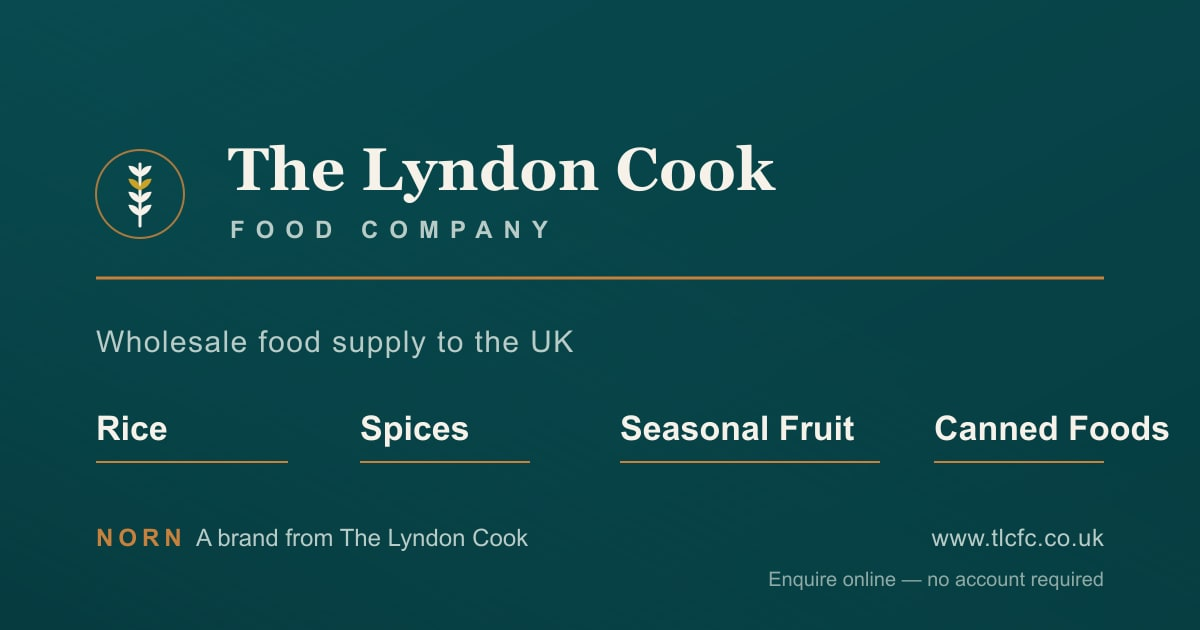
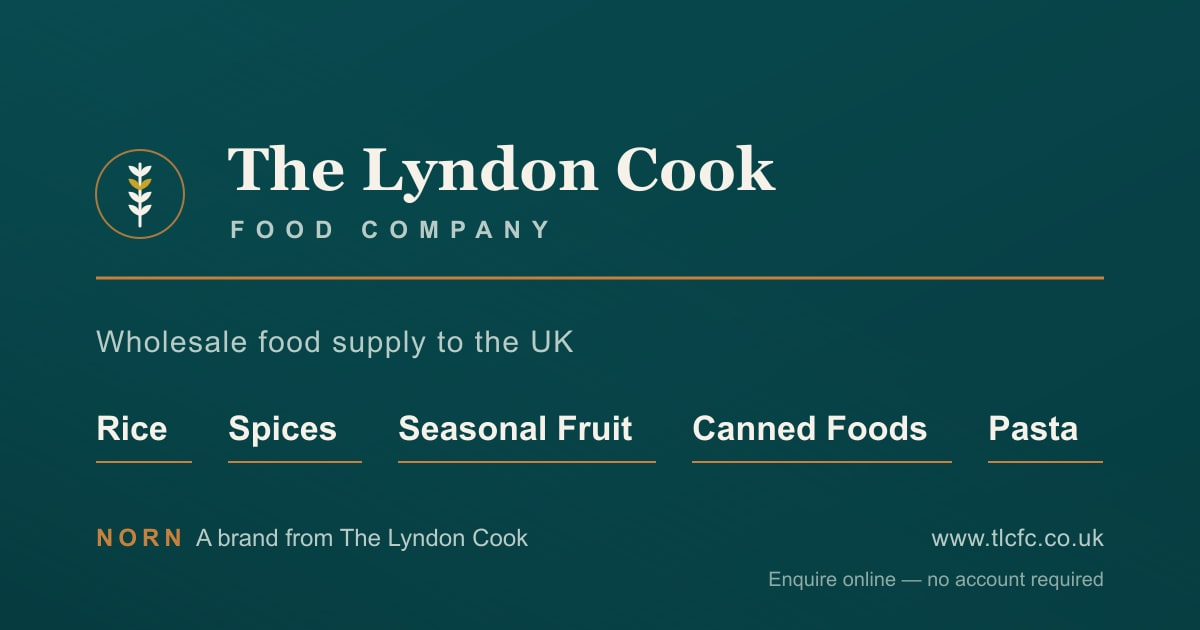
Fix batch-one bugs, add pasta across site copy and refresh the share image

Changed region(s): [[0.185, 0.6635, 0.9867, 0.754], [0.1542, 0.7238, 0.185, 0.754]]

diff --git a/components/ProductFilters.tsx b/components/ProductFilters.tsx
@@ -75,7 +75,9 @@ export default function ProductFilters({
     setSubgroup(ALL);
   };
 
-  const filterPanel = (
+  // Rendered twice (desktop rail + mobile panel); the scope suffix keeps ids
+  // and radio group names unique so labels target their own copy.
+  const filterPanel = (scope: "desktop" | "mobile") => (
     <div className="space-y-7">
       {/* Category pills */}
       <fieldset>
@@ -96,7 +98,7 @@ export default function ProductFilters({
               >
                 <input
                   type="radio"
-                  name={`${baseId}-category`}
+                  name={`${baseId}-category-${scope}`}
                   value={option.id}
                   checked={checked}
                   disabled={lockedCategory !== undefined && option.id !== lockedCategory}
@@ -133,7 +135,7 @@ export default function ProductFilters({
                 >
                   <input
                     type="radio"
-                    name={`${baseId}-subgroup`}
+                    name={`${baseId}-subgroup-${scope}`}
                     value={option.id}
                     checked={checked}
                     onChange={() => setSubgroup(option.id)}
@@ -150,7 +152,7 @@ export default function ProductFilters({
       {/* Search */}
       <div>
         <label
-          htmlFor={`${baseId}-search`}
+          htmlFor={`${baseId}-search-${scope}`}
           className="font-sans text-xs font-semibold uppercase tracking-[0.16em] text-muted"
         >
           Search products
@@ -161,7 +163,7 @@ export default function ProductFilters({
             className="pointer-events-none absolute left-3.5 top-1/2 h-4 w-4 -translate-y-1/2 text-teal-600"
           />
           <input
-            id={`${baseId}-search`}
+            id={`${baseId}-search-${scope}`}
             type="search"
             value={query}
             onChange={(event) => setQuery(event.target.value)}
@@ -192,7 +194,7 @@ export default function ProductFilters({
             <SlidersHorizontal aria-hidden="true" className="h-4 w-4 text-copper-600" />
             Filter the range
           </h2>
-          <div className="mt-6">{filterPanel}</div>
+          <div className="mt-6">{filterPanel("desktop")}</div>
           {hasFilters ? (
             <button
               type="button"
@@ -248,7 +250,7 @@ export default function ProductFilters({
               id={`${baseId}-mobile-filters`}
               className="mt-4 rounded-[6px] border border-sand bg-white p-5 shadow-[0_1px_3px_rgba(8,75,80,0.04)]"
             >
-              {filterPanel}
+              {filterPanel("mobile")}
             </div>
           ) : null}
         </div>

diff --git a/components/CategoryPageView.tsx b/components/CategoryPageView.tsx
@@ -8,7 +8,7 @@ import ProductCard from "@/components/ProductCard";
 import { PageHero } from "@/components/Hero";
 import type { Category } from "@/lib/categories";
 import { itemListSchema } from "@/lib/seo";
-import { getProductsByCategory } from "@/lib/products";
+import { CATALOGUE_COUNTS, getProductsByCategory } from "@/lib/products";
 import { CATEGORY_BANNERS, WEBSITE_BANNERS } from "@/lib/images";
 import { enquiryHref } from "@/lib/enquiry";
 
@@ -47,7 +47,7 @@ export default function CategoryPageView({ category }: { category: Category }) {
           <Container className="py-10">
             <dl className="grid gap-6 sm:grid-cols-3">
               {[
-                { label: "Choices", value: "14" },
+                { label: "Choices", value: String(CATALOGUE_COUNTS.canned) },
                 { label: "Can format", value: "400 ml" },
                 { label: "Opening", value: "Easy-open ring-pull" },
               ].map((item) => (
@@ -93,9 +93,21 @@ export default function CategoryPageView({ category }: { category: Category }) {
         </section>
       ) : null}
 
-      <section className="bg-ivory" aria-label={`${category.shortName} products`}>
+      <section className="bg-ivory" aria-labelledby="category-products-heading">
         <Container className="py-14 sm:py-16 lg:py-20">
-          <ul className="grid grid-cols-1 gap-5 sm:grid-cols-2 lg:grid-cols-3 lg:gap-6">
+          <p className="eyebrow">Product range</p>
+          <h2
+            id="category-products-heading"
+            className="mt-5 text-[1.75rem] leading-[1.15] text-teal-800 sm:text-[2.125rem]"
+          >
+            {products.length}{" "}
+            {products.length === 1 ? "product" : "products"} in {category.shortName}
+          </h2>
+          <p className="mt-4 max-w-2xl text-[0.9375rem] leading-relaxed text-muted">
+            Specifications, pack formats and artwork for every product in this
+            range are confirmed per order.
+          </p>
+          <ul className="mt-10 grid grid-cols-1 gap-5 sm:grid-cols-2 lg:grid-cols-3 lg:gap-6">
             {products.map((product, index) => (
               <li key={product.id} className="h-full">
                 <ProductCard product={product} delay={index * 70} />

diff --git a/app/about/page.tsx b/app/about/page.tsx
@@ -53,11 +53,12 @@ export default function AboutPage() {
                 </h2>
                 <div className="mt-6 space-y-4 text-[1.0625rem] leading-[1.7] text-muted">
                   <p>
-                    We supply rice, everyday ingredients, spices, seasonal fruit and
-                    canned foods to businesses that buy food to cook, serve or
-                    resell. The work is not complicated: match the right product to
-                    the right use, agree a clear specification, and plan the orders
-                    so deliveries land when the kitchen expects them.
+                    We supply rice, everyday ingredients, spices, seasonal fruit,
+                    canned foods and pasta to businesses that buy food to cook,
+                    serve or resell. The work is not complicated: match the right
+                    product to the right use, agree a clear specification, and
+                    plan the orders so deliveries land when the kitchen expects
+                    them.
                   </p>
                   <p>
                     We are a B2B supplier. We do not sell directly to the public
@@ -145,8 +146,8 @@ export default function AboutPage() {
               id="focus-heading"
               className="mt-5 text-[1.9rem] leading-[1.1] sm:text-[2.375rem] lg:text-[2.75rem]"
             >
-              Rice, everyday ingredients, spices, seasonal fruit and canned
-              foods.
+              Rice, everyday ingredients, spices, seasonal fruit, canned foods
+              and pasta.
             </h2>
             <p className="mt-5 text-[1.0625rem] leading-[1.7] text-muted">
               {CATALOGUE_COUNTS.total} products across {CATEGORIES.length} ranges. Each one has

diff --git a/lib/seo.ts b/lib/seo.ts
@@ -14,7 +14,7 @@ import type { Category } from "@/lib/categories";
 export const DEFAULT_TITLE = `${SITE.name} | UK Food Supply`;
 
 export const DEFAULT_DESCRIPTION =
-  "Explore rice, spices, seasonal fruit and canned foods. Discuss product specifications, volumes and planned supply with The Lyndon Cook Food Company.";
+  "Explore rice, spices, seasonal fruit, canned foods and pasta. Discuss product specifications, volumes and planned supply with The Lyndon Cook Food Company.";
 
 export function absoluteUrl(path = "/"): string {
   const normalised = path.startsWith("/") ? path : `/${path}`;
@@ -114,7 +114,7 @@ export function organizationSchema() {
     },
     image: absoluteUrl(SITE.ogImage.src),
     description:
-      "Wholesale food supply of rice, spices, seasonal fruit and canned foods, supplied around agreed specifications and planned purchasing requirements.",
+      "Wholesale food supply of rice, spices, seasonal fruit, canned foods and pasta, supplied around agreed specifications and planned purchasing requirements.",
     email: SITE.email,
     telephone: SITE.phoneHref,
     address: {

diff --git a/app/how-we-supply/page.tsx b/app/how-we-supply/page.tsx
@@ -5,12 +5,11 @@ import Link from "next/link";
 import Container from "@/components/Container";
 import EnquiryCTA from "@/components/EnquiryCTA";
 import Faq, { type FaqItem } from "@/components/Faq";
-import JsonLd from "@/components/JsonLd";
 import Reveal from "@/components/Reveal";
 import SupplyProcess, { DEFAULT_SUPPLY_STEPS } from "@/components/SupplyProcess";
 import { PageHero } from "@/components/Hero";
 import { IMAGE_SIZES, IMAGES, PRODUCT_PAGE_BANNERS } from "@/lib/images";
-import { faqSchema, pageMetadata } from "@/lib/seo";
+import { pageMetadata } from "@/lib/seo";
 
 const TITLE =   "How We Supply | Full-Load Food Supply | The Lyndon Cook Food Company";
 const DESCRIPTION =
@@ -52,8 +51,6 @@ const FAQS: FaqItem[] = [
 export default function HowWeSupplyPage() {
   return (
     <>
-      <JsonLd data={faqSchema(FAQS)} />
-
       <PageHero
         eyebrow="How we supply"
         title="Straightforward supply, planned around the customer."

diff --git a/lib/products.ts b/lib/products.ts
@@ -1089,8 +1089,10 @@ const nornProducts: Product[] = [
  * staples. Slugs only - resolved with `getProductBySlug` at render time.
  */
 function withRelated(items: Product[]): Product[] {
+  // Drafts never render, so they must not occupy a related-product slot.
+  const active = items.filter((item) => item.status === "active");
   return items.map((product) => {
-    const sameSubgroup = items
+    const sameSubgroup = active
       .filter(
         (candidate) =>
           candidate.id !== product.id &&
@@ -1098,7 +1100,7 @@ function withRelated(items: Product[]): Product[] {
           candidate.subgroup === product.subgroup
       )
       .map((candidate) => candidate.slug);
-    const sameCategory = items
+    const sameCategory = active
       .filter(
         (candidate) =>
           candidate.id !== product.id &&

diff --git a/components/Footer.tsx b/components/Footer.tsx
@@ -22,8 +22,8 @@ export default function Footer() {
           <div className="flex max-w-2xl flex-col items-start gap-3">
             <Logo onDark width={360} fluid className="max-w-[75%] sm:max-w-none" />
             <p className="max-w-md text-[0.9375rem] leading-relaxed text-[var(--footer-muted)]">
-              Rice, spices, seasonal fruit and canned foods, supplied around
-              clear specifications and planned purchasing requirements.
+              Rice, spices, seasonal fruit, canned foods and pasta, supplied
+              around clear specifications and planned purchasing requirements.
             </p>
           </div>
           <div className="sm:text-right">

diff --git a/app/company-profile/page.tsx b/app/company-profile/page.tsx
@@ -17,7 +17,7 @@ import { CATALOGUE_COUNTS, getProductsByCategory } from "@/lib/products";
 
 const TITLE = "Company Profile | The Lyndon Cook Food Company";
 const DESCRIPTION =
-  "A downloadable overview of The Lyndon Cook Food Company: rice, spices, seasonal fruit and canned foods, supplied around agreed specifications and planned purchasing requirements.";
+  "A downloadable overview of The Lyndon Cook Food Company: rice, spices, seasonal fruit, canned foods and pasta, supplied around agreed specifications and planned purchasing requirements.";
 
 export const metadata: Metadata = pageMetadata({
   title: TITLE,

diff --git a/app/enquire/page.tsx b/app/enquire/page.tsx
@@ -15,7 +15,7 @@ import { ACTIVE_PRODUCTS } from "@/lib/products";
 
 const TITLE = "Enquire | Discuss Your Requirements | The Lyndon Cook Food Company";
 const DESCRIPTION =
-  "Send an enquiry about rice, spices, seasonal fruit or canned foods. Tell us the product, specification, pack format, volume, destination and delivery schedule.";
+  "Send an enquiry about rice, spices, seasonal fruit, canned foods or pasta. Tell us the product, specification, pack format, volume, destination and delivery schedule.";
 
 export const metadata: Metadata = pageMetadata({
   title: TITLE,

diff --git a/app/products/page.tsx b/app/products/page.tsx
@@ -43,7 +43,7 @@ export default function ProductsPage() {
 
       <PageHero
         eyebrow="Our Products"
-        title="Rice, spices, seasonal fruit and canned foods."
+        title="Rice, spices, seasonal fruit, canned foods and pasta."
         description="Everything we currently supply, in one place. Use the filters to narrow the catalogue by category, or search by product name. Specifications and pack formats are agreed per order, so tell us what you need and we will review the supply options."
         banners={PRODUCT_PAGE_BANNERS}
       />

diff --git a/app/page.tsx b/app/page.tsx
@@ -44,7 +44,7 @@ export default function HomePage() {
             <br className="hidden sm:block" /> Straightforward supply.
           </>
         }
-        description="Rice, spices, seasonal fruit and canned foods, supplied around clear specifications and planned purchasing requirements."
+        description="Rice, spices, seasonal fruit, canned foods and pasta, supplied around clear specifications and planned purchasing requirements."
         primary={{
           label: "Discuss your requirements",
           href: "/enquire/",

diff --git a/components/CategoryCard.tsx b/components/CategoryCard.tsx
@@ -63,9 +63,7 @@ export default function CategoryCard({
                 aria-hidden="true"
                 className="h-1.5 w-1.5 rounded-full bg-copper-600"
               />
-              {isCanned
-                ? `· ${count} products`
-                : `${count} ${count === 1 ? "product" : "products"}`}
+              {`${count} ${count === 1 ? "product" : "products"}`}
             </span>
           </div>
 
